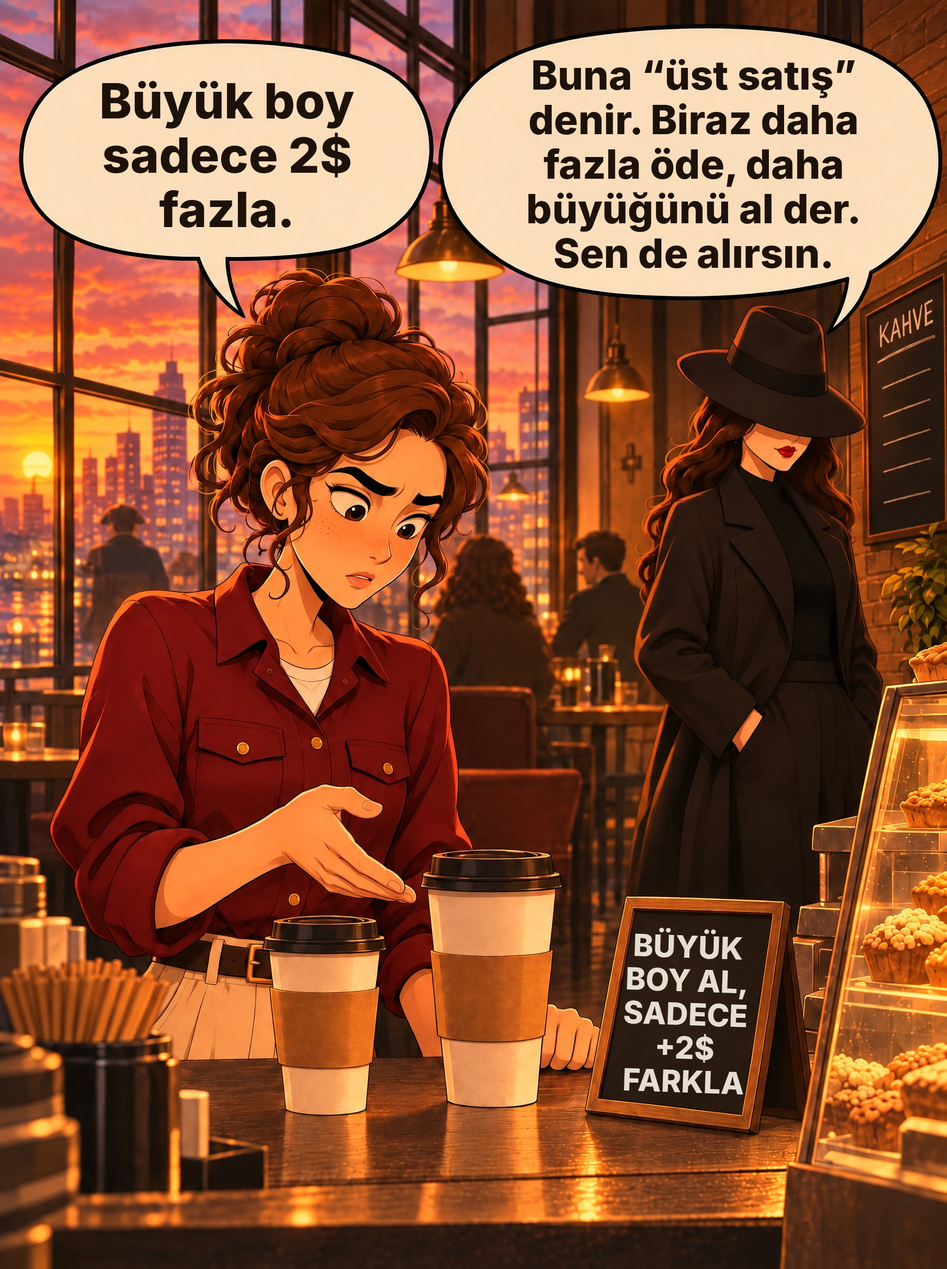
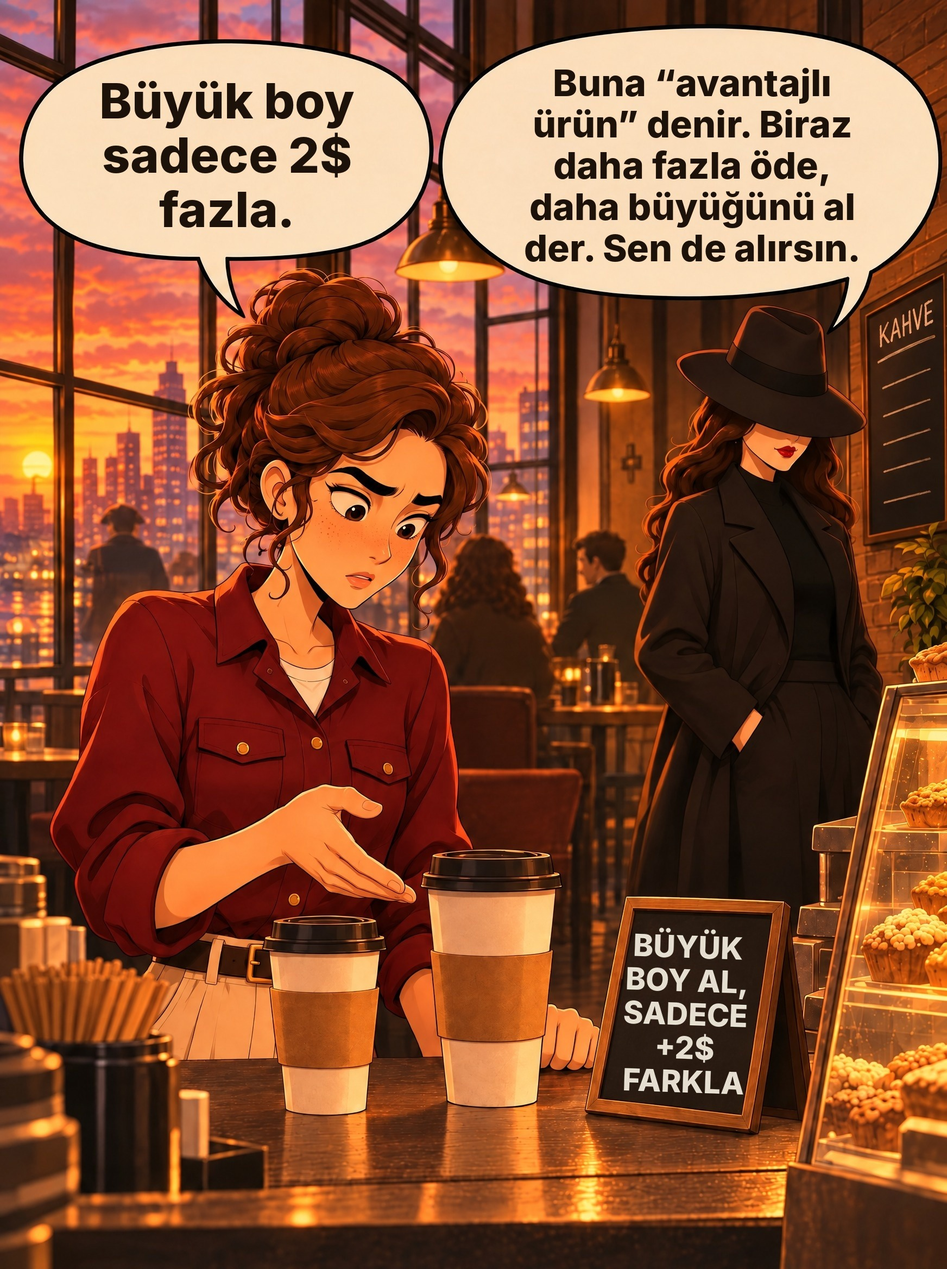
Dark Money: 1. gonderi 5. sayfa 'ust satis' yerine 'avantajli urun'
Claude-Session: https://claude.ai/code/session_01DJnELRHxzPfAmkumJCzBBp

Changed region(s): [[0.5573, 0.0312, 0.8979, 0.2188]]

diff --git a/dark-money/tools/post1_yazi_ekle.py b/dark-money/tools/post1_yazi_ekle.py
@@ -18,7 +18,7 @@ SLIDES = {
     4: [((95, 130, 640, 450), "3 tanesi 24$. Bu çok iyi bir fırsat!"),
         ((800, 120, 1395, 465), "Tanesi ucuz ama daha çok alıyorsun. Tek ürün yeterliyken 14$ fazladan ödüyorsun.")],
     5: [((90, 110, 625, 370), "Büyük boy sadece 2$ fazla."),
-        ((775, 80, 1410, 430), "Buna “üst satış” denir. Biraz daha fazla öde, daha büyüğünü al der. Sen de alırsın.")],
+        ((800, 95, 1380, 420), "Buna “avantajlı ürün” denir. Biraz daha fazla öde, daha büyüğünü al der. Sen de alırsın.")],
     6: [((90, 95, 640, 400), "Herkes bunu alıyor, iyidir herhalde."),
         ((775, 70, 1410, 425), "Mağazalar, seni ikna etmek için yorumları ve satış sayılarını gösterir. Başkalarının aldığını görmek, senin de almanı kolaylaştırır.")],
     7: [((75, 110, 590, 370), "Ben tasarruf ettiğimi sanmıştım.")],

diff --git a/Moneyy Madam.md b/Moneyy Madam.md
@@ -110,7 +110,7 @@ Her sayfa iki panel: üst = patron (sert patron kadın), alt = lider (şapkalı 
 | 2 | Son 2 ürün kalmış! Hemen almalıyım. | Bu mesaj kaçırma korkusu yaratır. Başka fiyatlara bakamadan aceleyle almana neden olur. |
 | 3 | Ücretsiz kargo için 15$ daha eklemem lazım. | 5$ kargo ödememek için 15$'lık fazladan ürün alıyorsun. Tasarruf ettiğini sanırken daha çok harcıyorsun. |
 | 4 | 3 tanesi 24$. Bu çok iyi bir fırsat! | Tanesi ucuz ama daha çok alıyorsun. Tek ürün yeterliyken 14$ fazladan ödüyorsun. |
-| 5 | Büyük boy sadece 2$ fazla. | Buna “üst satış” denir. Biraz daha fazla öde, daha büyüğünü al der. Sen de alırsın. (Tabela: BÜYÜK BOY AL, SADECE +2$ FARKLA) |
+| 5 | Büyük boy sadece 2$ fazla. | Buna “avantajlı ürün” denir. Biraz daha fazla öde, daha büyüğünü al der. Sen de alırsın. (Tabela: BÜYÜK BOY AL, SADECE +2$ FARKLA) |
 | 6 | Herkes bunu alıyor, iyidir herhalde. | Mağazalar, seni ikna etmek için yorumları ve satış sayılarını gösterir. Başkalarının aldığını görmek, senin de almanı kolaylaştırır. |
 | 7 | Ben tasarruf ettiğimi sanmıştım. | Ne kadar harcadığına da bak. **@moneyymadam** hesabını takip et, şirketlerin seni nasıl daha çok almaya ittiğini öğren. |
 
@@ -233,7 +233,8 @@ Hepsi Python 3 + Pillow, `python3 -I betik.py` ile çalışır. Yazısız görse
 - 2. gönderi: karakter güncellendi (gözlük, röfle, ben). "Jilet" yerine ağda ürünleri. Kumanda ve fazla el silindi. Telefon ekranı yandan, "Sponsorlu", pembe topuklu.
 - 3. gönderi: önce amber ton + mor omuz çantası (sırt çantası değil); sonra kullanıcı çevrenin karartılmasını istedi (referanstaki gibi). Sayfa 3–4 üst panel beyaz gömlek + lacivert blazer. Sayfa 5 üst obez, alt yeşil eşofman.
 - 4. gönderi: karartma **yok**; boş yazı kutuları **silindi**; son sayfada adam yerine şapkalı kadın.
-- Son: hesap adı tüm CTA'lara eklendi.
+- Hesap adı tüm CTA'lara eklendi.
+- **Gönderi 1, sayfa 5 sağ balon:** “üst satış” ifadesi **kaldırıldı**, yerine **“avantajlı ürün”** yazıldı (kullanıcı kararı). Betik `dark-money/tools/post1_yazi_ekle.py` güncellendi.
 
 ## 12. Geçersiz Kılınan / Artık Yapılmayacak Kararlar
 
